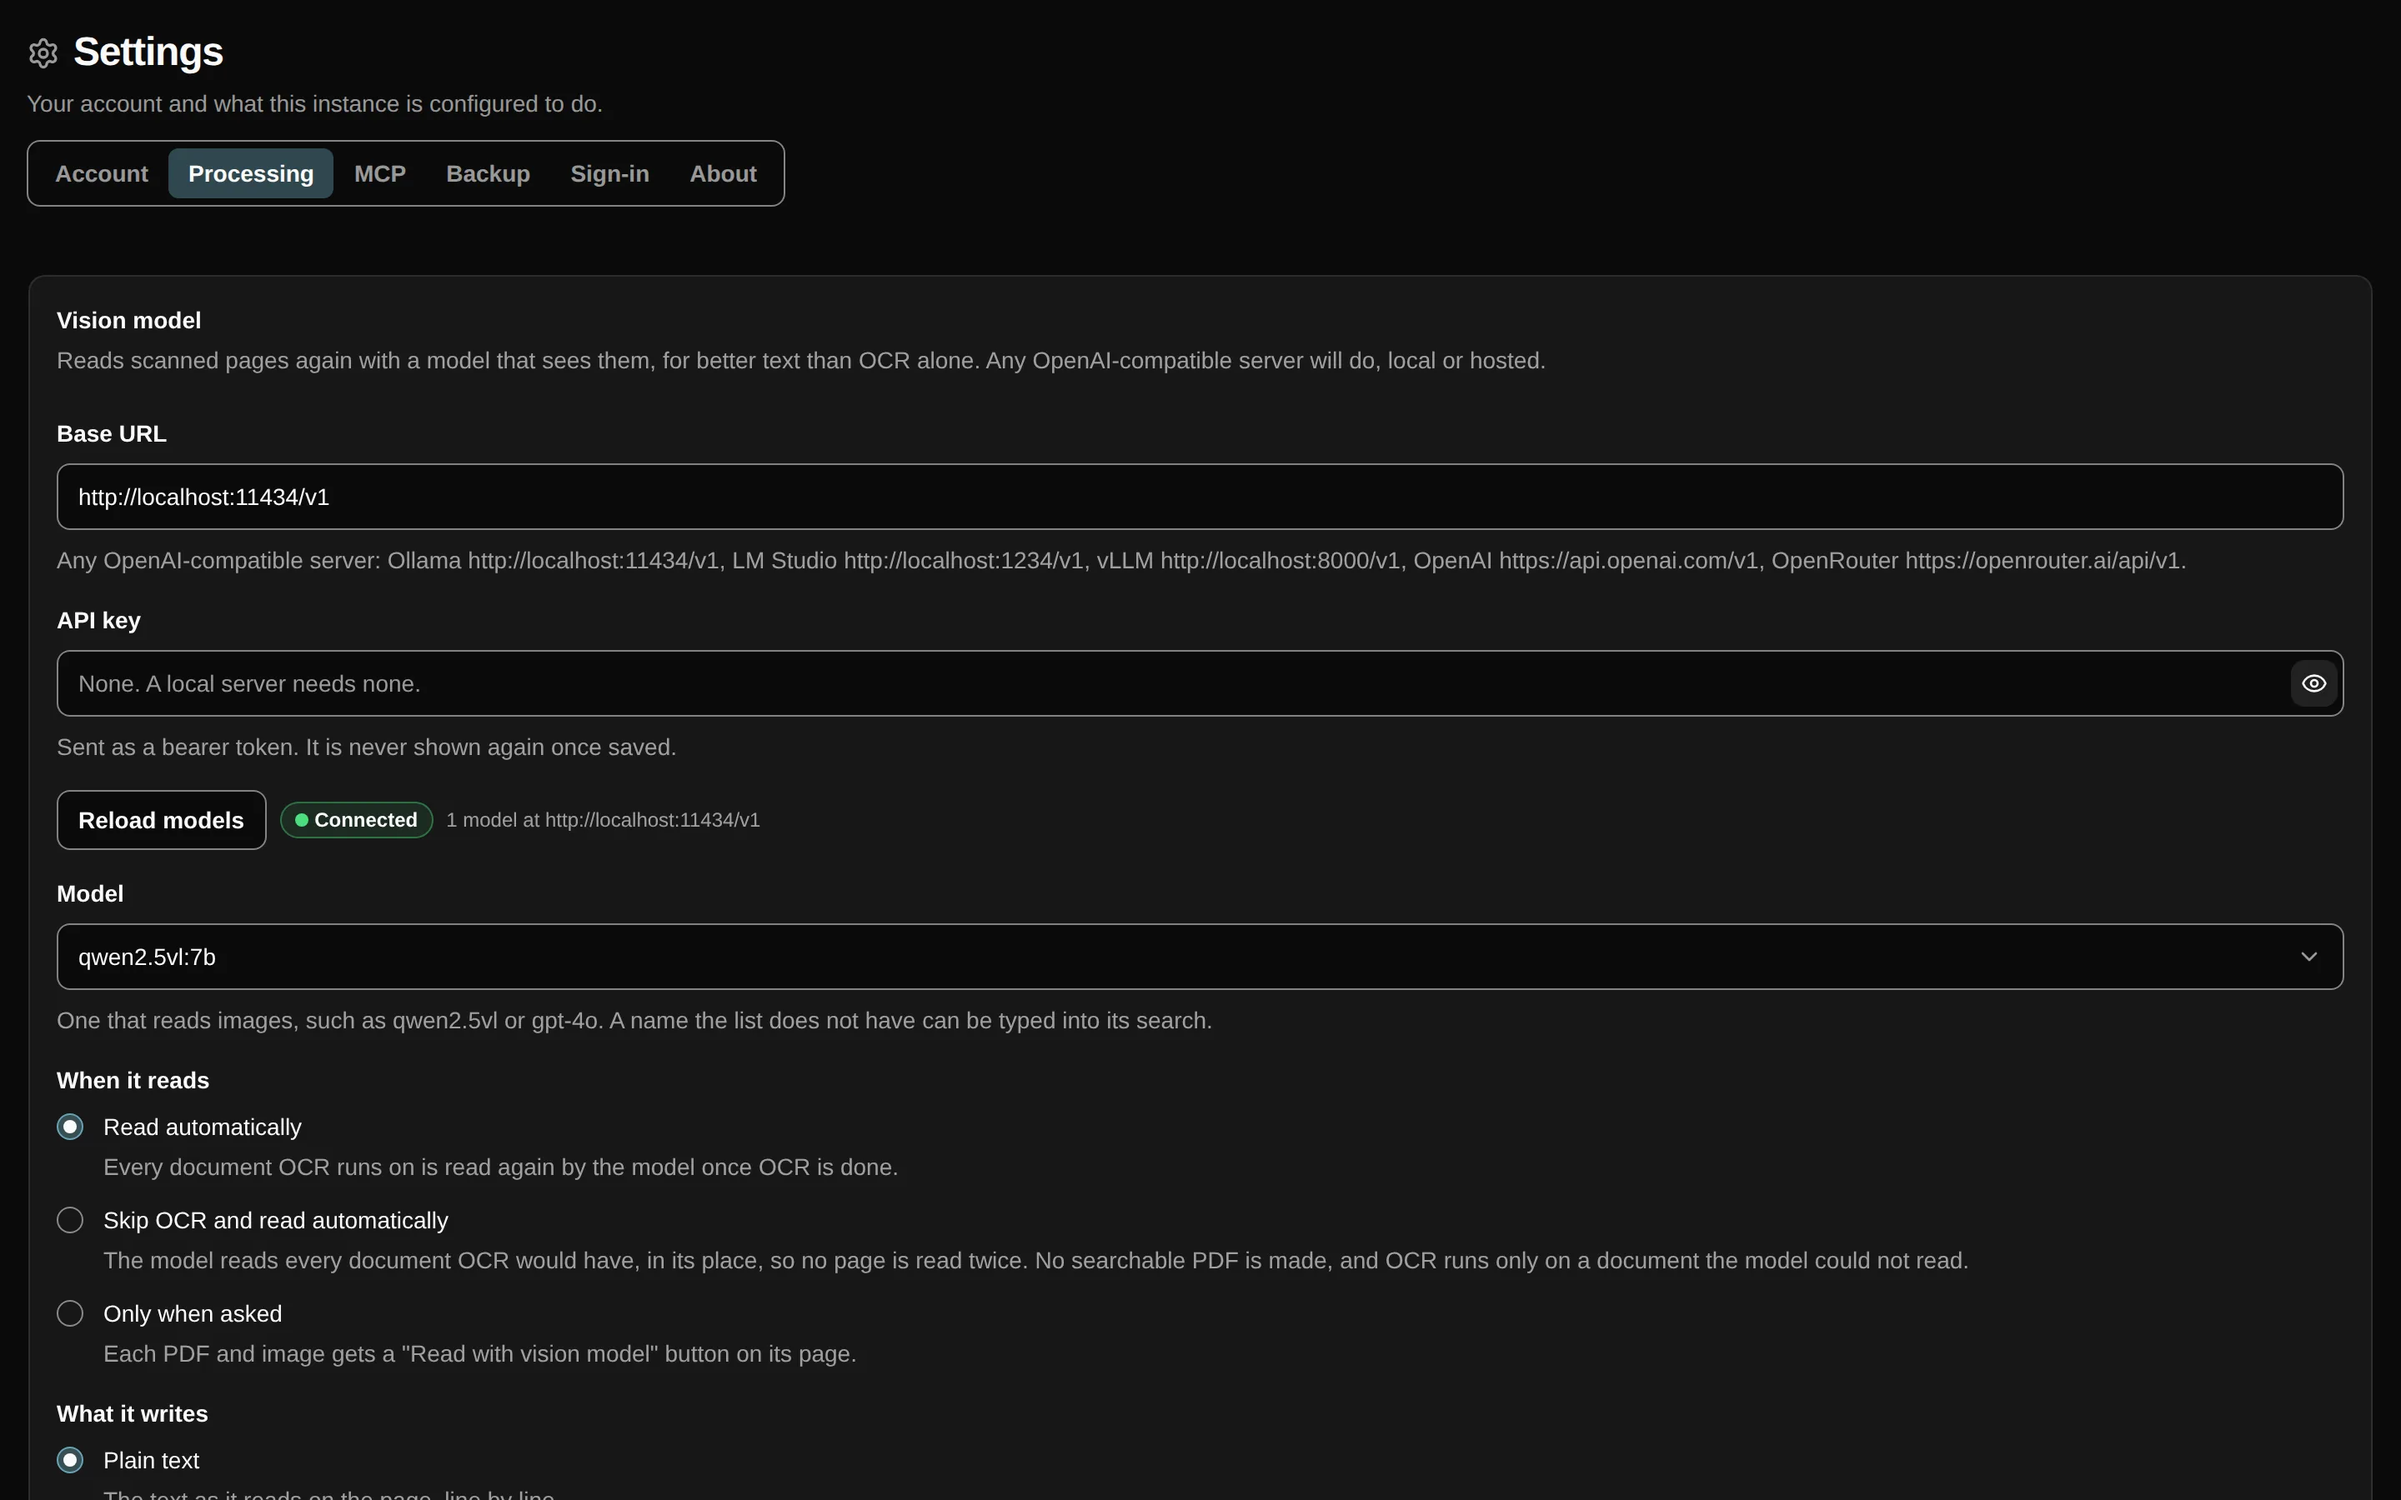
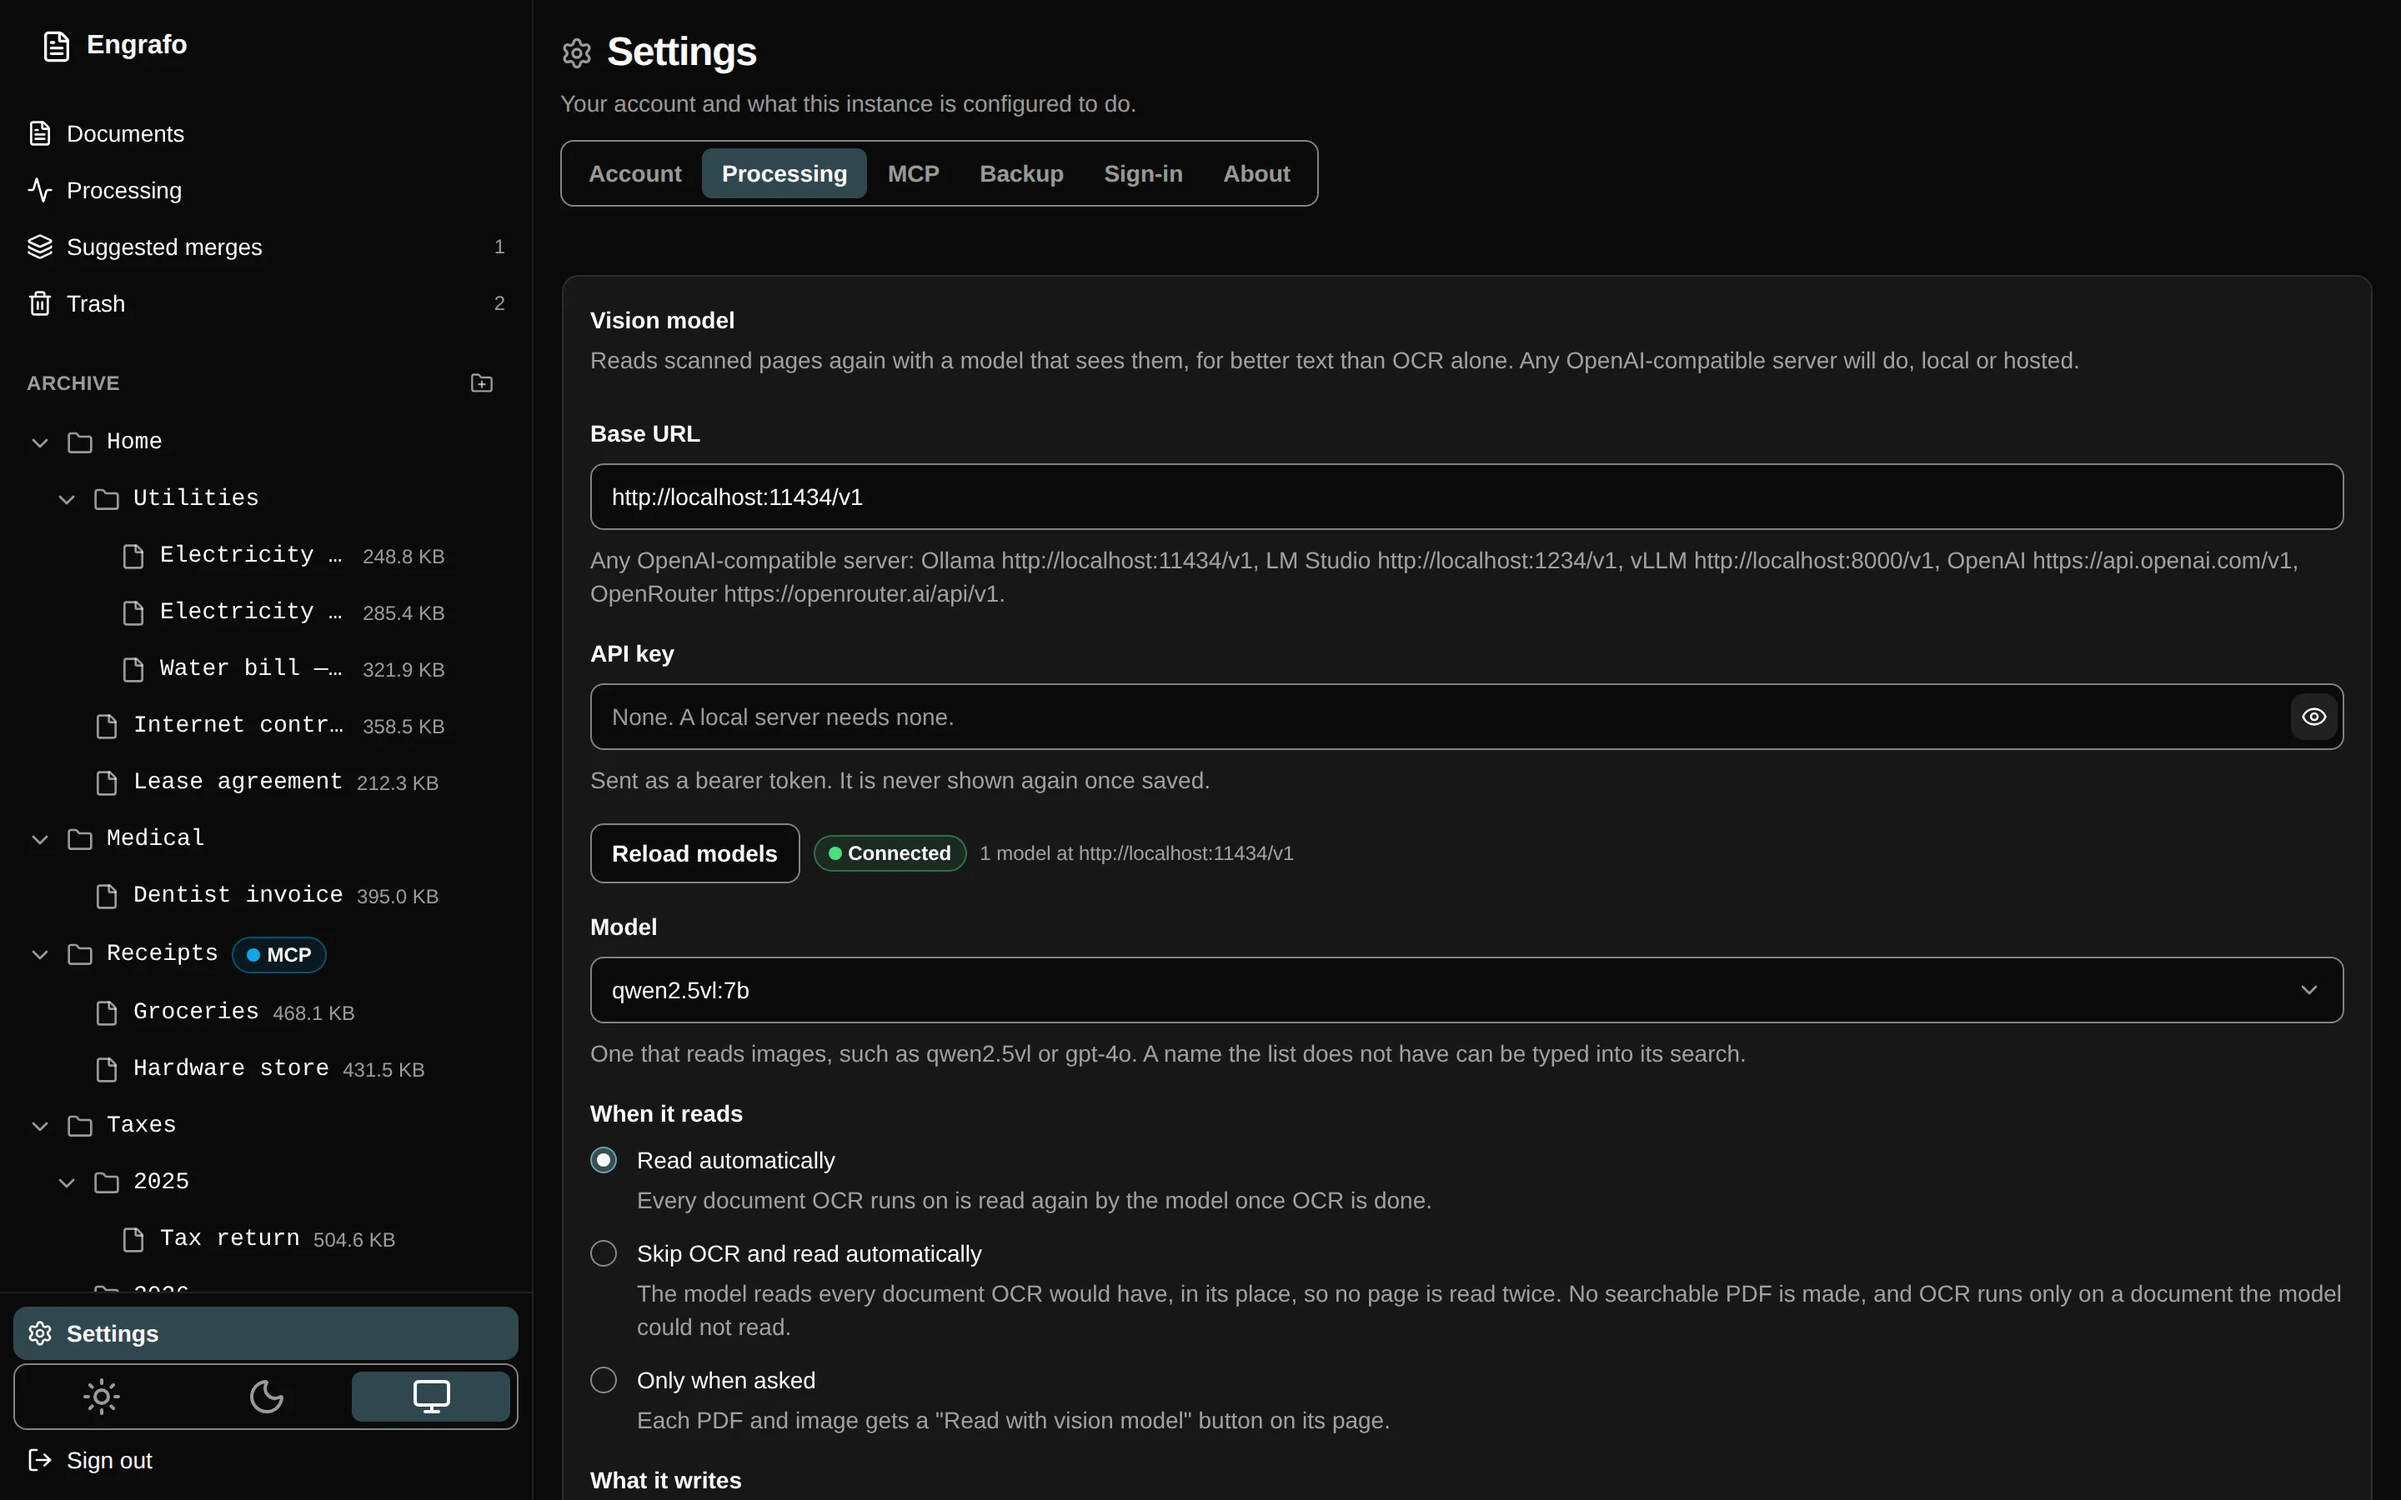
docs(site): screenshots of the app in its shell
Recaptured from the new screen stories, so every slide shows the sidebar
and the folder tree with believable documents, and all six are the same
16:10 size. Captions and alt text describe what each now shows.

diff --git a/site/src/_data/screenshots.js b/site/src/_data/screenshots.js
@@ -1,56 +1,47 @@
 // The hero carousel, in order. Files are in src/assets/screenshots/, captured
-// at 1440×900 (2x) from the app's Storybook stories, so the data is mock data,
-// never a real archive. `dark` is optional: with it, a reader in dark mode sees
-// the dark capture. Width and height are the files' own, so nothing jumps as
-// they load.
+// at 1440×900 (2x) from the app's `Layouts/AppLayout/Screens` Storybook stories
+// (app/src/components/layouts/app-layout.screens.stories.tsx): each page inside
+// the real shell, over a sample archive, never a real one. `dark` is optional:
+// with it, a reader in dark mode sees the dark capture.
+
+const WIDTH = 2880;
+const HEIGHT = 1800;
 
 export default [
   {
     light: "search-light.webp",
     dark: "search-dark.webp",
-    width: 2880,
-    height: 1120,
-    caption: "Search finds the lease by what it says, narrowed to PDFs and receipts.",
-    alt: "The Documents page searching for “rent”, filtered to PDFs and receipts only. The lease agreement is found by a passage in its text about the tenant paying 950 EUR a month.",
+    caption: "Search finds bills by what they say, each with its first page and the passage that matched.",
+    alt: "The Documents page searching for “utility bills”. Five results, two electricity bills, a water bill, a lease and a payslip, each with a thumbnail and the passage that matched. The sidebar shows the folder tree: Home, Utilities, Medical, Receipts (shared over MCP) and Taxes.",
   },
   {
     light: "document-light.webp",
     dark: "document-dark.webp",
-    width: 2880,
-    height: 1242,
-    caption: "A scanned bill being read: page 3 of 12, with the receipt and details beside it.",
-    alt: "A document's page while it is processed: inspect and OCR are done, the vision model is on page 3 of 12, and the search index is queued. Receipt and Details cards sit beside the timeline.",
+    caption: "A bill read by the vision model: its text as Markdown, the vendor and total filled in beside it.",
+    alt: "An electricity bill's page on the Text tab, showing the bill transcribed as Markdown with its tables. Beside it, a Receipt card with vendor Stadtwerke München and total €84.20, and a Details card with the date read from the text.",
   },
   {
     light: "merge-suggestions-light.webp",
     dark: "merge-suggestions-dark.webp",
-    width: 2880,
-    height: 1800,
-    caption: "A scan filed as three pages, spotted and explained before you merge it.",
-    alt: "The Suggested merges page. Three scans, scan_0004 to scan_0006, are suggested as one document with high confidence (93%), with the reasons for and against listed and Dismiss and Review merge buttons.",
+    caption: "A letter scanned a page per file, spotted and explained before you merge it.",
+    alt: "The Suggested merges page. Three scans, scan_0004 to scan_0006, are suggested as one document with high confidence (93%), with the reasons for and against, a note that the AI model confirmed one page break, and Dismiss and Review merge buttons.",
   },
   {
     light: "processing-light.webp",
     dark: "processing-dark.webp",
-    width: 2880,
-    height: 1120,
-    caption: "The Processing page: what is running, queued, failed and finished.",
-    alt: "The Processing page with counts of running, queued, failed and finished documents, and a running document showing its page progress.",
+    caption: "A batch going through: one document read page by page, three waiting their turn.",
+    alt: "The Processing page: 1 running, 3 queued, 0 failed and 14 finished in the last day. The running document, a tax return, is on page 8 of 18 with the vision model, with a progress bar.",
   },
   {
     light: "settings-mcp-light.webp",
     dark: "settings-mcp-dark.webp",
-    width: 2880,
-    height: 1120,
-    caption: "Share folders with Claude or any MCP client through one endpoint and an API key.",
-    alt: "The MCP settings: the endpoint address, http://nas.local:3004/mcp, one API key named “Claude Code on my laptop” with a Revoke button, and a New key button.",
+    caption: "Share a folder with Claude or any MCP client through one endpoint and an API key.",
+    alt: "The MCP settings: the endpoint address, http://nas.local:3004/mcp, and two API keys, “Claude Code on my laptop” and “Claude Desktop”, each with a Revoke button. The Receipts folder in the sidebar is marked MCP.",
   },
   {
     light: "settings-vision-light.webp",
     dark: "settings-vision-dark.webp",
-    width: 2880,
-    height: 1800,
     caption: "Point Engrafo at any OpenAI-compatible vision model, local or hosted.",
     alt: "The vision model settings, connected to a local Ollama server with the qwen2.5vl:7b model and set to read documents automatically.",
   },
-];
+].map((shot) => ({ ...shot, width: WIDTH, height: HEIGHT }));
